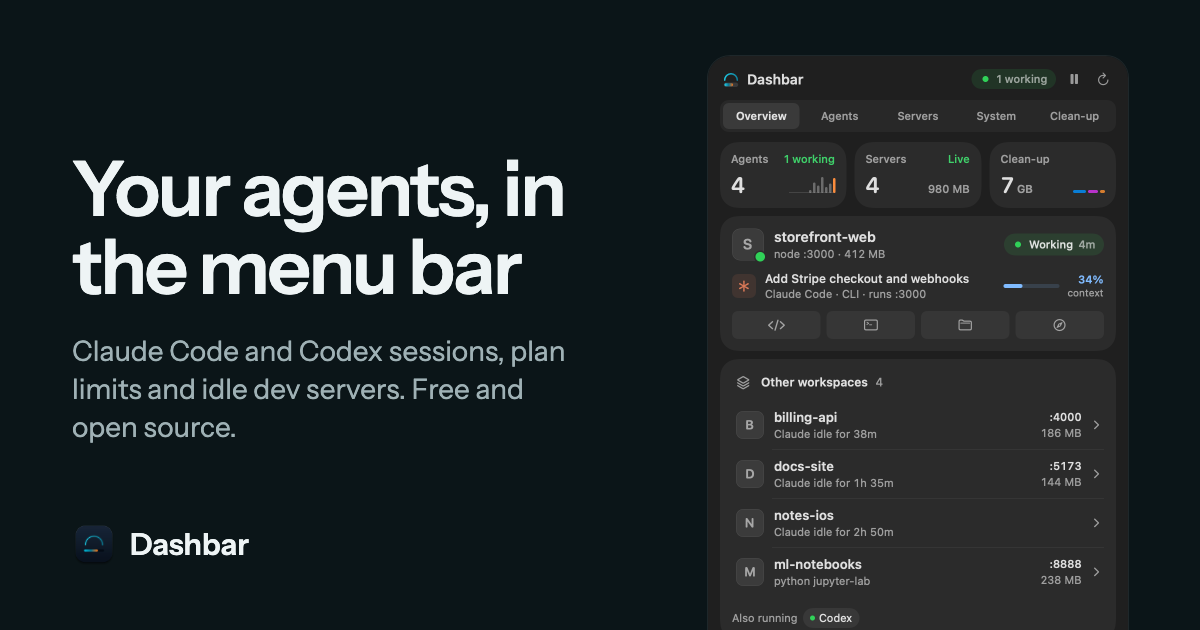
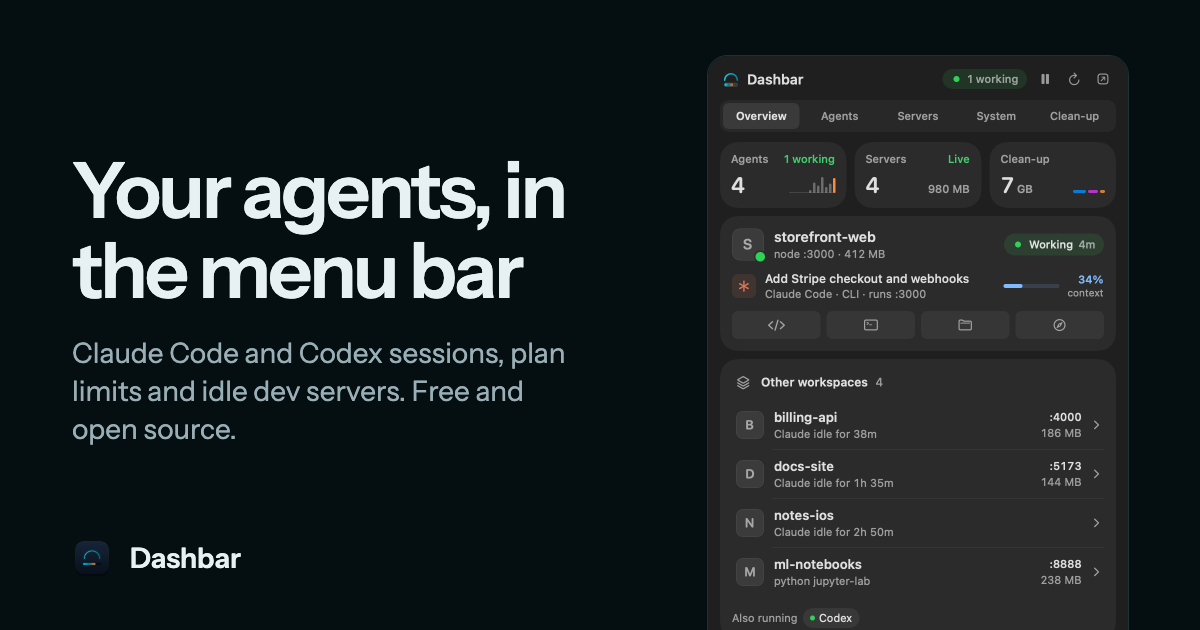
Share image: build og.png from a committed layout
scripts/og/og.html and scripts/render-og.sh (headless Chrome) replace an
image that had no recipe. Re-rendered with the pop-out button in the header.

diff --git a/scripts/og/og.html b/scripts/og/og.html
@@ -1,0 +1,23 @@
+<!doctype html>
+<!-- The share image (docs/images/og.png, 1200 x 630). Rendered by scripts/render-og.sh; edit here, not the PNG.
+     Colours and type are the site's dark theme. The panel is docs/images/overview-dark.png at its 420pt width. -->
+<meta charset="utf-8">
+<style>
+  @font-face { font-family: "Instrument Sans Variable"; font-weight: 400 700; src: url("../../site/node_modules/@fontsource-variable/instrument-sans/files/instrument-sans-latin-wght-normal.woff2") format("woff2"); }
+  :root { --ground: oklch(0.16 0.018 215); --ink: oklch(0.95 0.01 215); --muted: oklch(0.74 0.025 215); }
+  * { box-sizing: border-box; }
+  html, body { margin: 0; width: 1200px; height: 630px; overflow: hidden; background: var(--ground); color: var(--ink); font-family: "Instrument Sans Variable", system-ui, sans-serif; }
+  .copy { position: absolute; left: 72px; top: 150px; width: 560px; }
+  h1 { margin: 0; font-size: 77px; line-height: 80px; font-weight: 600; letter-spacing: -0.035em; }
+  p { margin: 24px 0 0; max-width: 500px; font-size: 28px; line-height: 38px; color: var(--muted); }
+  .brand { position: absolute; left: 72px; bottom: 52px; display: flex; align-items: center; gap: 18px; font-size: 28px; font-weight: 600; }
+  .brand img { width: 40px; height: 40px; border-radius: 10px; }
+  .panel { position: absolute; left: 707px; top: 55px; width: 422px; height: 640px; border-radius: 20px; overflow: hidden; border: 1px solid oklch(0.3 0.03 215); }
+  .panel img { display: block; width: 420px; height: auto; }
+</style>
+<div class="copy">
+  <h1>Your agents, in the menu bar</h1>
+  <p>Claude Code and Codex sessions, plan limits and idle dev servers. Free and open source.</p>
+</div>
+<div class="brand"><img src="../../docs/images/icon.png" alt=""> Dashbar</div>
+<div class="panel"><img src="../../docs/images/overview-dark.png" alt=""></div>

diff --git a/AGENTS.md b/AGENTS.md
@@ -17,7 +17,7 @@ GitHub Pages. Read `README.md` for what the app does; this file is how to work o
 | `packaging/homebrew/dashbar.rb` | The cask. The live copy is in the separate `stevenmckinnon/homebrew-tap` repo |
 | `site/` | Vite and React product site. `src/demos/` holds the Stageshow demos, `src/stageshow/` the vendored kit (MIT, see its `NOTICE.md`), `src/faq.js` the FAQ (also written into `index.html` as structured data at build time) |
 | `release-notes/` | One `X.Y.Z.md` per release (bullets of user-facing changes). Feeds Sparkle's update dialog, the GitHub release and the site's "What's new" (`site/src/releases.js`, which only shows versions that are in `appcast.xml`) |
-| `docs/images/` | README pictures and the site's `og.png`; the site serves this folder as its public root |
+| `docs/images/` | README pictures and the site's `og.png`; the site serves this folder as its public root. `og.png` is built from `scripts/og/og.html` by `scripts/render-og.sh` (headless Chrome); rerun it after re-rendering `overview-dark.png` |
 | `appcast.xml` | The update feed. Served from `raw.githubusercontent.com/.../main/appcast.xml` |
 
 ## Run it
@@ -96,7 +96,7 @@ images stay clean.
 - Do not invent facts on the site: no user counts, quotes, star counts or prices. FAQ answers must state
   what the app really does today.
 - Site demos mirror the app. When a visual in the app changes (tiles, header icons, card layout), update
-  `site/src/demos/` to match, then re-render `docs/images/` and re-check the demos' heights.
+  `site/src/demos/` to match, then re-render `docs/images/` (and `og.png` with `scripts/render-og.sh`) and re-check the demos' heights.
 
 ## Release
 
